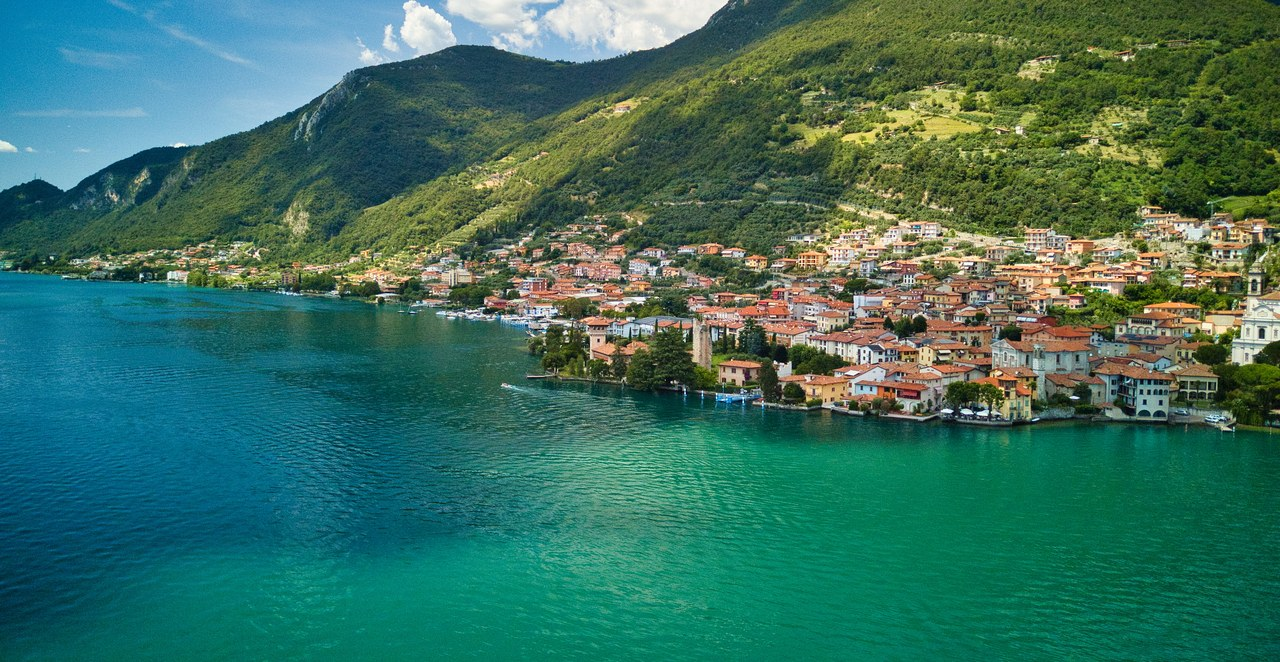
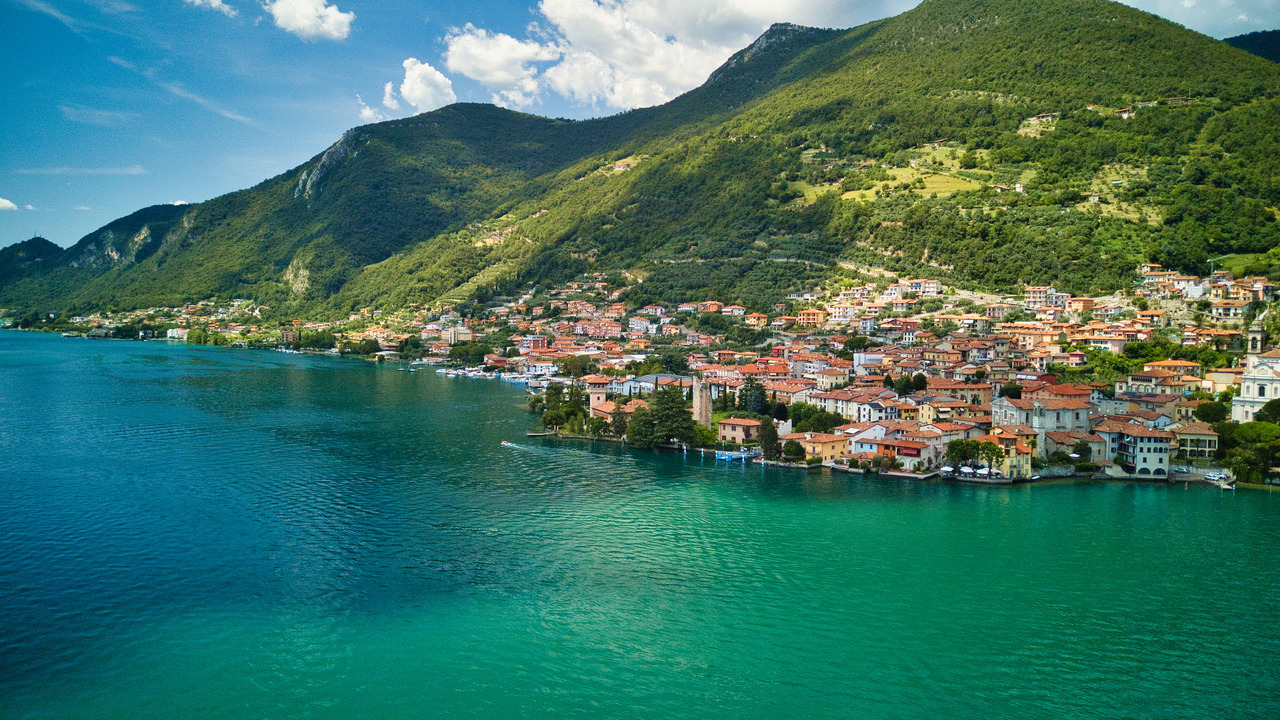
Serve the hero as high-quality JPEG from the full 4000px source and drop soft WebP/scale.

diff --git a/index.html b/index.html
@@ -74,16 +74,16 @@
     <link
       rel="preload"
       as="image"
-      type="image/webp"
-      href="assets/photos/predore-lago-iseo-mobile.webp?v=20261019c"
+      type="image/jpeg"
+      href="assets/photos/predore-lago-iseo-mobile.jpg"
       media="(max-width: 720px)"
       fetchpriority="high"
     />
     <link
       rel="preload"
       as="image"
-      type="image/webp"
-      imagesrcset="assets/photos/predore-lago-iseo-1280.webp?v=20261019c 1280w, assets/photos/predore-lago-iseo-1920.webp?v=20261019c 1920w, assets/photos/predore-lago-iseo-2560.webp?v=20261019c 2560w, assets/photos/predore-lago-iseo-3840.webp?v=20261019c 3840w"
+      type="image/jpeg"
+      imagesrcset="assets/photos/predore-lago-iseo-1280.jpg 1280w, assets/photos/predore-lago-iseo-1920.jpg 1920w, assets/photos/predore-lago-iseo-2560.jpg 2560w, assets/photos/predore-lago-iseo-3840.jpg 3840w, assets/photos/predore-lago-iseo-4000.jpg 4000w"
       imagesizes="100vw"
       media="(min-width: 721px)"
       fetchpriority="high"
@@ -203,27 +203,17 @@
           <picture>
             <source
               media="(max-width: 720px)"
-              type="image/webp"
-              srcset="assets/photos/predore-lago-iseo-mobile.webp?v=20261019c"
-            />
-            <source
-              media="(max-width: 720px)"
               type="image/jpeg"
-              srcset="assets/photos/predore-lago-iseo-mobile.jpg?v=20261019c"
-            />
-            <source
-              type="image/webp"
-              srcset="assets/photos/predore-lago-iseo-1280.webp?v=20261019c 1280w, assets/photos/predore-lago-iseo-1920.webp?v=20261019c 1920w, assets/photos/predore-lago-iseo-2560.webp?v=20261019c 2560w, assets/photos/predore-lago-iseo-3840.webp?v=20261019c 3840w"
-              sizes="100vw"
+              srcset="assets/photos/predore-lago-iseo-mobile.jpg"
             />
             <img
-              src="assets/photos/predore-lago-iseo.jpg?v=20261019c"
-              srcset="assets/photos/predore-lago-iseo-1280.jpg?v=20261019c 1280w, assets/photos/predore-lago-iseo-1920.jpg?v=20261019c 1920w, assets/photos/predore-lago-iseo-2560.jpg?v=20261019c 2560w, assets/photos/predore-lago-iseo-3840.jpg?v=20261019c 3840w"
+              src="assets/photos/predore-lago-iseo.jpg"
+              srcset="assets/photos/predore-lago-iseo-1280.jpg 1280w, assets/photos/predore-lago-iseo-1920.jpg 1920w, assets/photos/predore-lago-iseo-2560.jpg 2560w, assets/photos/predore-lago-iseo-3840.jpg 3840w, assets/photos/predore-lago-iseo-4000.jpg 4000w"
               sizes="100vw"
               data-i18n-alt="hero.alt"
               alt="Predore sul Lago d'Iseo, sponda bergamasca del Sebino"
               width="2560"
-              height="1325"
+              height="1440"
               fetchpriority="high"
               decoding="async"
             />

diff --git a/css/styles.css b/css/styles.css
@@ -538,23 +538,12 @@ html.js .logo-img-light {
   width: 100%;
   height: 100%;
   object-fit: cover;
-  object-position: 55% 45%;
-  transform: scale(1.04);
-  animation: hero-drift 18s var(--ease) forwards;
+  object-position: 55% 42%;
 }
 
 @media (max-width: 720px) {
   .hero-media img {
-    transform: none;
-    animation: none;
-    /* Mobile uses a portrait crop; keep focus near the lake/shore */
-    object-position: center 42%;
-  }
-}
-
-@keyframes hero-drift {
-  to {
-    transform: scale(1);
+    object-position: center 40%;
   }
 }
 
